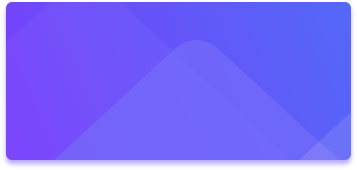
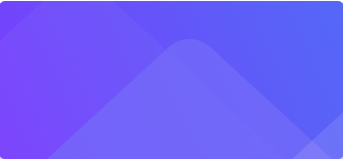
JSAAL-17 finish investment value card

Changed region(s): [[0.0, 0.0, 1.0, 1.0], [0.9038, 0.8553, 0.9329, 0.8805], [0.8746, 0.8302, 0.9038, 0.8553]]

diff --git a/src/Investments/PortfolioValue.jsx b/src/Investments/PortfolioValue.jsx
@@ -1,25 +1,70 @@
-import React from 'react';
-import { View, Text, ImageBackground } from 'react-native';
+import React, { useEffect } from 'react';
+import {
+  View,
+  Text,
+  ImageBackground,
+  ActivityIndicator,
+} from 'react-native';
 import { FontAwesome } from '@expo/vector-icons';
+import { useDispatch, useSelector } from 'react-redux';
+import { fetchUserInvestmentShares, fetchStockPrice } from '../redux/investment/actionCreator';
 import styles from './styles';
 import cardBackground from '../../assets/img/investment/card.png';
+import { round, addComma } from '../common/numbers';
 
 export default function PortfolioValue() {
+  const dispatch = useDispatch();
+  const {
+    isLoading,
+    userShares,
+    price,
+    error,
+  } = useSelector((state) => state.investments);
+
+  useEffect(() => {
+    dispatch(fetchUserInvestmentShares(1));
+  }, []);
+
+  useEffect(() => {
+    if (userShares) {
+      const symbols = userShares.stocks.map((stock) => stock.symbol);
+      dispatch(fetchStockPrice(symbols));
+    }
+  }, [userShares]);
+
+  function calculateInvsetmentsValue() {
+    if (userShares && price) {
+      const calculatedValue = userShares
+        .stocks.map(({ shares, symbol }) => shares * price[symbol].price)
+        .reduce((a, b) => a + b);
+      return addComma(round(calculatedValue));
+    }
+    return 'loading...';
+  }
+
   return (
-    <ImageBackground source={cardBackground} style={styles.valueCard}>
-      <View style={styles.value}>
-        <FontAwesome
-          size={22}
-          name="money"
-          color="#fff"
-        />
-        <Text style={styles.valueText}>Value</Text>
-      </View>
-      <View style={styles.total}>
-        <Text style={styles.valueNumber}>$ 3,400</Text>
-        <Text style={styles.totalText}>Total Investment</Text>
-      </View>
-      <Text style={styles.account}>INVESTMENT ACCOUNT</Text>
+    <ImageBackground
+      source={cardBackground}
+      style={styles.valueCard}
+      imageStyle={{ borderRadius: 6 }}
+    >
+      {!error ? (
+        <>
+          {isLoading && <ActivityIndicator size="large" style={styles.loading} color="#fff" />}
+          {!isLoading && !error && (
+            <>
+              <View style={styles.value}>
+                <FontAwesome size={22} name="money" color="#fff" />
+                <Text style={styles.valueText}>Value</Text>
+              </View>
+              <Text style={styles.valueNumber}>
+                {`$${calculateInvsetmentsValue()}`}
+              </Text>
+              <Text style={styles.totalText}>Total Investment</Text>
+            </>
+          )}
+        </>
+      ) : <Text>{error.message}</Text>}
     </ImageBackground>
   );
 }

diff --git a/src/redux/investment/actionCreator.js b/src/redux/investment/actionCreator.js
@@ -23,7 +23,7 @@ export const fetchUserInvestmentSharesSuccess = (payload) => ({
 });
 
 export const fetchUserInvestmentShares = (uid) => (dispatch) => {
-  const serverUrl = new URL(`${SERVER_URL}/investments/${uid}`);
+  const serverUrl = new URL(`${SERVER_URL}/investments/user/${uid}`);
   dispatch(fetchUserInvestmentSharesStart());
   fetch(serverUrl)
     .then((response) => {
@@ -56,8 +56,10 @@ export const fetchStockPriceSuccess = (payload) => ({
 });
 
 export const fetchStockPrice = (symbols) => (dispatch) => {
-  const apiUrl = new URL(`${API_URL}/stock/market/batch?symbols=${symbols}&types=price`);
-  url.searchParams.append('token', API_KEY);
+  const apiUrl = new URL(`${API_URL}/stock/market/batch`);
+  apiUrl.searchParams.append('symbols', symbols);
+  apiUrl.searchParams.append('types', 'price');
+  apiUrl.searchParams.append('token', API_KEY);
   dispatch(fetchStockPriceStart());
   fetch(apiUrl)
     .then((response) => {
@@ -71,6 +73,6 @@ export const fetchStockPrice = (symbols) => (dispatch) => {
       }
       return response.json();
     })
-    .then((response) => dispatch(fetchStockPriceSuccesss(response)))
+    .then((response) => dispatch(fetchStockPriceSuccess(response)))
     .catch((err) => dispatch(fetchStockPriceFail(err)));
 };

diff --git a/src/Investments/styles.js b/src/Investments/styles.js
@@ -1,43 +1,45 @@
-import { StyleSheet } from 'react-native';
+import { StyleSheet, Dimensions } from 'react-native';
 
 export default StyleSheet.create({
   valueCard: {
+    backgroundColor: '#766ef9',
     height: 170,
-    width: 357,
+    width: Math.round(Dimensions.get('window').width) - 30,
+    borderRadius: 6,
+    shadowColor: '#766ef9',
+    shadowOffset: { height: 3 },
+    shadowRadius: 6,
+    shadowOpacity: 0.7,
+    elevation: 6,
   },
   value: {
     flexDirection: 'row',
     justifyContent: 'flex-end',
     marginTop: 15,
     marginBottom: 6,
+    marginRight: 22,
     alignItems: 'center',
   },
   valueText: {
     color: '#fff',
     fontWeight: 'bold',
     fontSize: 22,
-    marginRight: 22,
     marginLeft: 5,
-  },
-  total: {
-    flexDirection: 'row',
-    alignItems: 'center',
   },
   valueNumber: {
     color: '#fff',
     fontSize: 40,
     fontWeight: 'bold',
-    marginHorizontal: 22,
+    marginLeft: 22,
   },
   totalText: {
     color: '#fff',
-    fontSize: 16,
+    fontSize: 18,
     marginHorizontal: 22,
-  },
-  account: {
-    color: '#fff',
-    marginTop: 34,
+    marginTop: 20,
     marginBottom: 15,
-    marginHorizontal: 22,
+  },
+  loading: {
+    marginTop: 70,
   },
 });

diff --git a/src/redux/investment/actionType.js b/src/redux/investment/actionType.js
@@ -3,4 +3,4 @@ export const FETCH_USER_INVESTMENT_SHARES_FAIL = 'FETCH_USER_INVESTMENT_SHARES_F
 export const FETCH_USER_INVESTMENT_SHARES_SUCCESS = 'FETCH_USER_INVESTMENT_SHARES_SUCCESS';
 export const FETCH_STOCK_PRICE_START = 'FETCH_STOCK_PRICE_START';
 export const FETCH_STOCK_PRICE_FAIL = 'FETCH_STOCK_PRICE_FAIL';
-export const FETCH_STOCK_PRICE_SUCCESS = FETCH_STOCK_PRICE_SUCCESS;
+export const FETCH_STOCK_PRICE_SUCCESS = 'FETCH_STOCK_PRICE_SUCCESS';

diff --git a/src/common/numbers.js b/src/common/numbers.js
@@ -14,3 +14,13 @@ export const processLargeNumbers = (n) => {
   if (n < 1000000000) return `${round(n / 1000000)}M`;
   return `${round(n / 1000000000)}B`;
 };
+
+export const addComma = (n) => {
+  return `${n}`
+    .split('.')[0]
+    .split('')
+    .reverse()
+    .map((c, i) => !i || i % 3 ? c : c + ',')
+    .reverse()
+    .join('');
+};

diff --git a/src/redux/investment/reducer.js b/src/redux/investment/reducer.js
@@ -9,8 +9,8 @@ import {
 
 const initState = {
   isLoading: false,
-  userShares: [],
-  price: [],
+  userShares: undefined,
+  price: undefined,
   error: '',
 };
 
